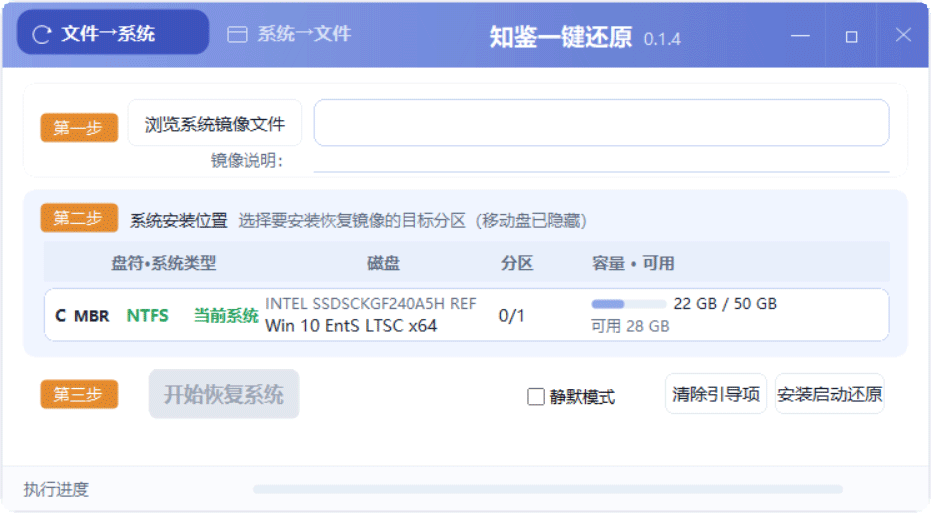
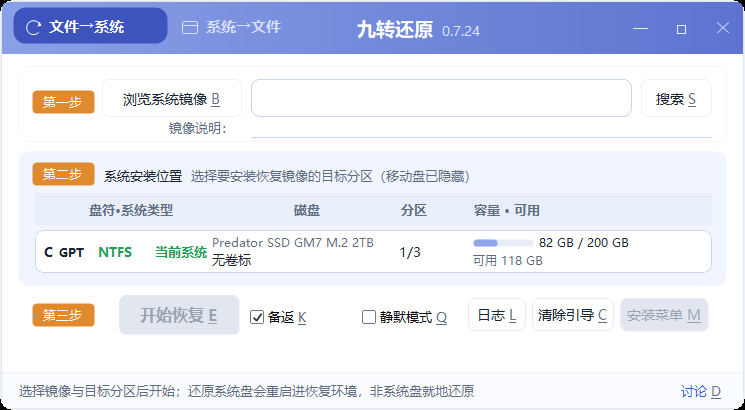
docs(homepage): 主页素材刷新 —— 重拍 gui-main.png（旧图停在改名前「知鉴一键还原 0.1.4」时代，现为 九转还原 0.7.24 还原模式实拍：日志/安装菜单/备返/静默当前布局）；README 中英版本 0.7.23→0.7.24（体积口径 41MB/27MB 实测未变）；修中文页语言切换（English 原不可点、中文链到自己，现为 **中文** | [English](README.en.md)）；GitHub About 同步：描述补「双引擎还原（改名交换/mkntfs 兜底）」、主页挂无忧论坛帖（API PATCH，已生效）

diff --git a/README.en.md b/README.en.md
@@ -2,7 +2,7 @@
 
 > **English** | [中文](README.md)
 
-> Version `0.7.23` | **x64 + x86 dual architecture** (the Windows side follows the OS bitness; the Linux rescue layer is always x64) | Windows 7 / 10 / 11 / WinPE | Release package ≈41 MB (≈27 MB of it is the rescue kernel and initramfs)
+> Version `0.7.24` | **x64 + x86 dual architecture** (the Windows side follows the OS bitness; the Linux rescue layer is always x64) | Windows 7 / 10 / 11 / WinPE | Release package ≈41 MB (≈27 MB of it is the rescue kernel and initramfs)
 > License: own code **MIT** (see [`LICENSE`](LICENSE)); third-party components are *separately distributed* — full list, license texts and source-code provenance in [`THIRD_PARTY_LICENSES.txt`](THIRD_PARTY_LICENSES.txt)
 
 In one sentence: **back up a Windows system into a single image file, and restore it in one click when you need it.**

diff --git a/README.md b/README.md
@@ -1,8 +1,8 @@
 # SysRecover（九转还原 · 单机版）
 
-> [中文](README.md) | **English**
+> **中文** | [English](README.en.md)
 
-> 版本 `0.7.23`｜**x64 + x86 双架构**（Windows 侧跟随系统位数，Linux 救援层固定 x64）｜Windows 7 / 10 / 11 / WinPE｜发布包 ≈41 MB（其中 ≈27 MB 是救援内核与 initramfs）
+> 版本 `0.7.24`｜**x64 + x86 双架构**（Windows 侧跟随系统位数，Linux 救援层固定 x64）｜Windows 7 / 10 / 11 / WinPE｜发布包 ≈41 MB（其中 ≈27 MB 是救援内核与 initramfs）
 > 许可：自有代码 **MIT**（见 [`LICENSE`](LICENSE)）；第三方组件「单独分发」，清单、全文与源码出处见 [`THIRD_PARTY_LICENSES.txt`](THIRD_PARTY_LICENSES.txt)
 
 一句话：**把 Windows 系统备份成一个镜像文件，需要的时候一键还原回去。**
